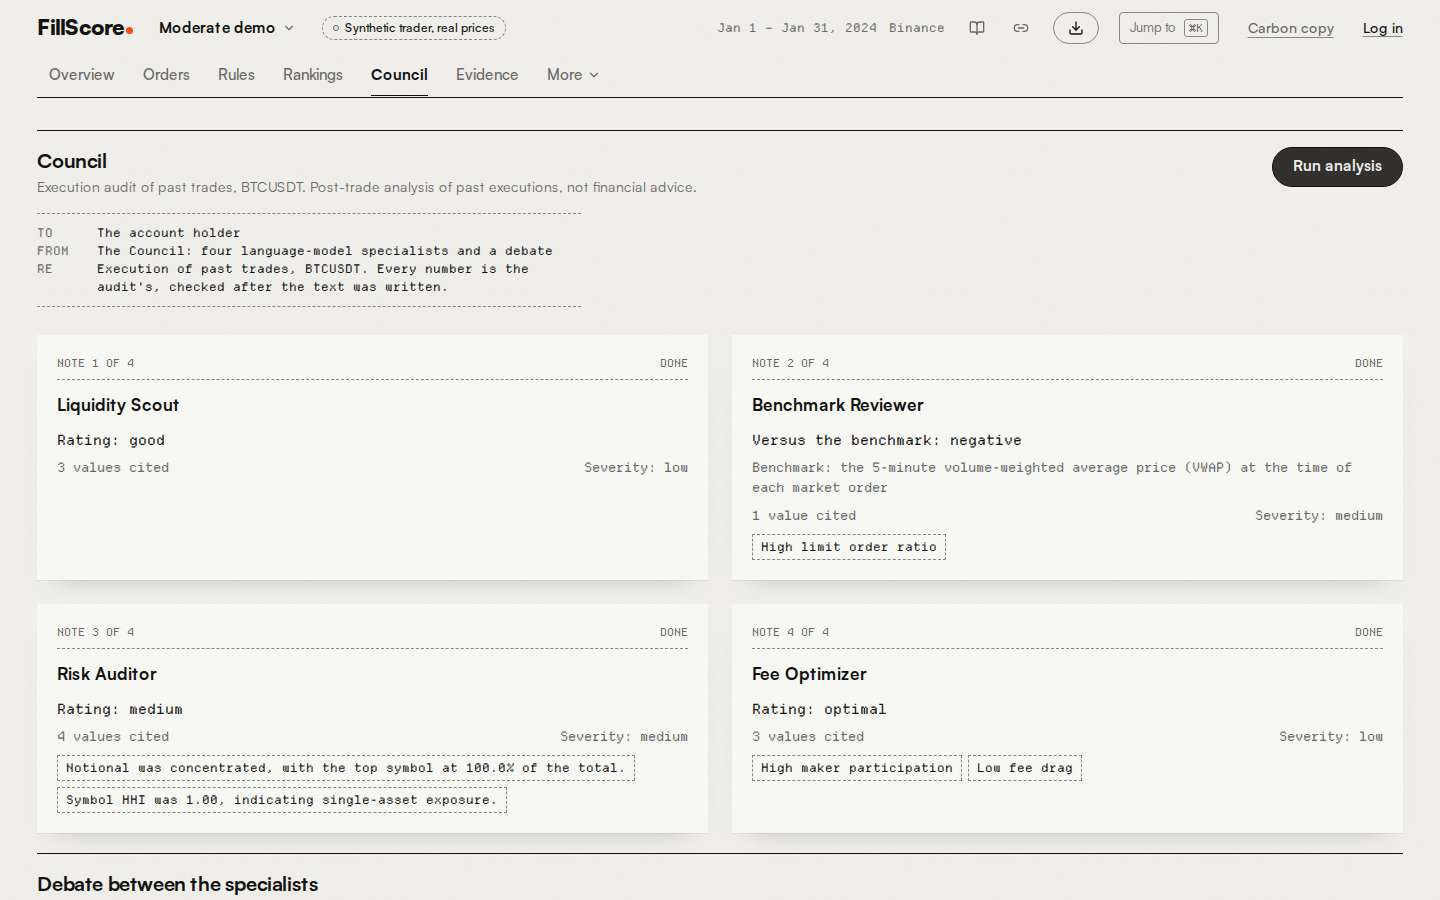
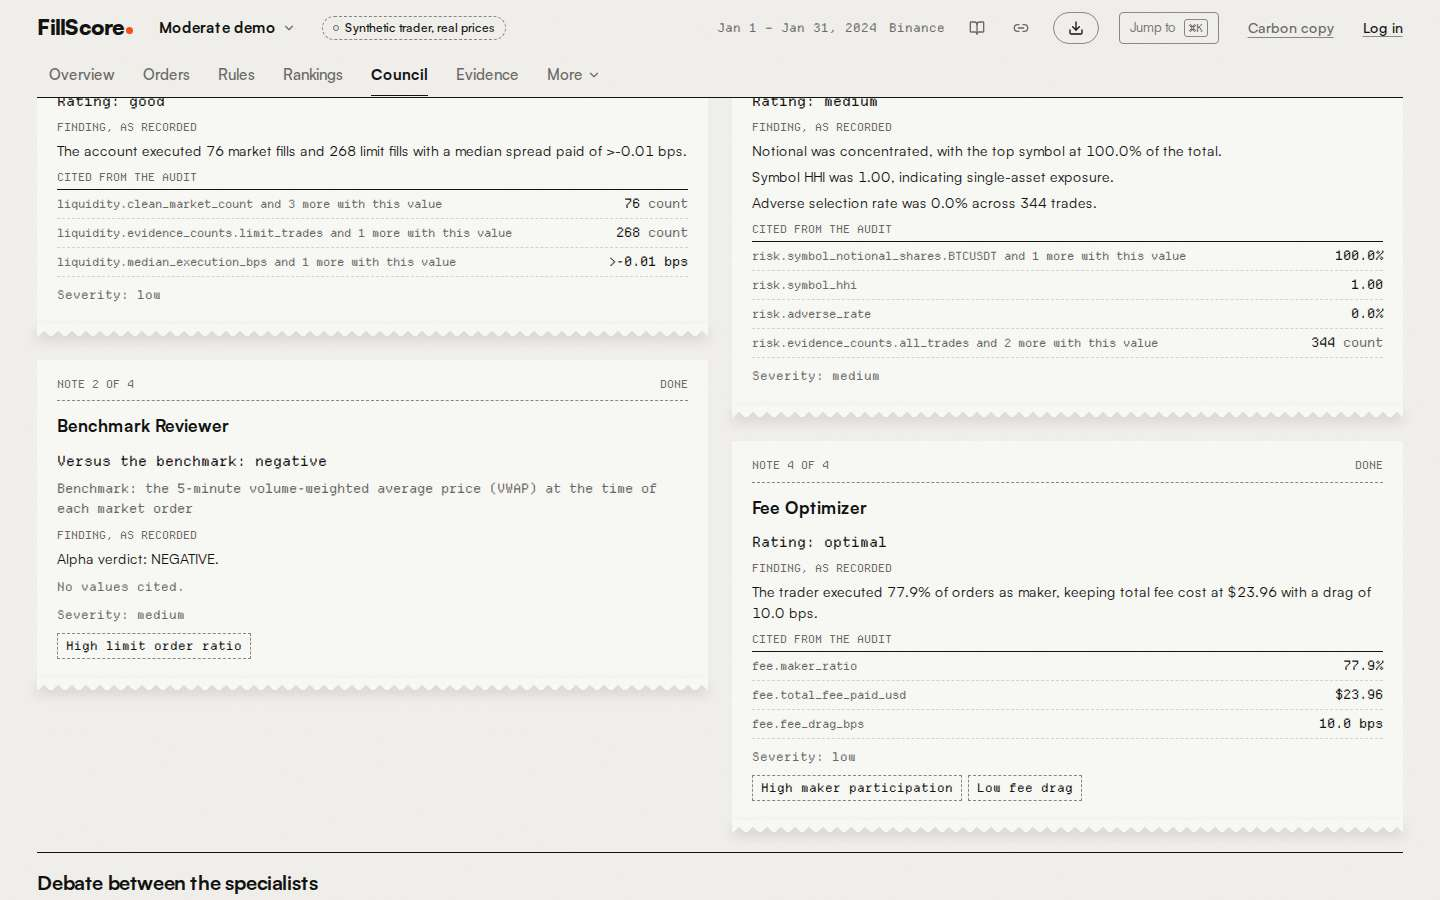
design v3 fixes QA: final pass, images, M8 report, progress

diff --git a/docs/milestones/M8.md b/docs/milestones/M8.md
@@ -1,5 +1,54 @@
 # M8 — Design v3 "Tape & Receipt" (and, below, design v2 "Instrument")
 
+## Design v3 fixes, 2026-11-21
+
+Design v3 was approved and pushed; this order fixed the review's findings (A1-A10), added three server-side numbers
+(B1-B3) and ran QA. One local commit per item (`git log add2d42..HEAD`), not pushed. Details per item in
+`docs/PROGRESS.md`.
+
+| Item | Outcome | What and why |
+|---|---|---|
+| A1 order count | done | Cause: the Orders page grouped fills in the browser, so the 11 never-filled orders had no row (245 stored, 234 with fills, 607 fills). New `GET /api/audit/orders-ledger` lists every stored order; `orderCounts()` is returned by it and by `/orders-summary`; header "245 orders, 234 with fills, 607 fills."; tested that both carry the same counts |
+| A2 v1 grade | kept | Display 84.8 = `formatScore(84.80888516669383)`, the locked value in CLAUDE.md, `gradeInvariance.test.ts` and `demoProfiles.ts`; 84.570 exists only as a retired set in a "never carry" test. Nothing changed; chain in PROGRESS for Deepanshu |
+| A3 tiny values | done | Display formatter only: "−0.00 bps"/"−$0.00" for tiny negatives, "<0.01" kept for tiny positives, exact value in title and screen-reader text. PDF formatter, evidence packs, CSV, goldens: diff empty |
+| A4 tab band | done | The view's first section drew a second ink rule 32 px under the tabs' rule; it no longer does (Orders, Rules, Rankings, Council, Evidence, Settings) |
+| A5 receipt case | done | Explanatory sentences in sentence case (`receiptCopy.ts`, tested); capitals only for labels |
+| A6 hero at 390 | done | Squarish pen loops round the whole fill tiles, measured clear of all printed text; the fee leader ends on the second loop (also on the desktop) |
+| A7 Council notes | done | Finding verbatim; cited values as ledger lines traced on read by `ml-service/agents/cited_values.py` (shown only when every numeral is traced), sent as a `cited_values` event; notes as printed paper at natural height |
+| A8 refusal | done | "Turned on: ... Needed: Reading only."; Binance keeps the fields ("Press Connect again. Nothing from this attempt was stored."), Bybit/OKX and an unaccepted key clear both and focus the key; tests per exchange and a browser check |
+| A9 file input | done | A pill button that is the label of the real, focusable file input |
+| A10 stamp | done | 20 px inset below 1024 px; outline inside the margin from 320 to 1440 px |
+| B1 per-order cost | done | Ledger rows carry `cost` (totalBps x intendedNotional / 10,000, the receipt's formula); sum = $52.08; the tape draws dollars, improvements below the line; payload 109,678 bytes (20,482 gzip) for 245 orders |
+| B2 per-type totals | done | `totalsByType()` as `byType` on `/orders-summary`; families add up to All (tested); the All / Market / Limit switch is back ($14.70 + $37.38 = $52.08) |
+| B3 public prints | not built | No prints are stored anywhere the server can read deterministically (demo or real); serving them needs new storage, an ingestion change or a request-time download, all excluded. The receipt drops its chart and keeps the source line. Options with sizes in PROGRESS |
+
+| Check | Result |
+|---|---|
+| frontend vitest | 684 passed |
+| tsc, lint, build | 0 errors; lint 0 errors, 17 warnings (unchanged); build ok |
+| e2e | 39 passed |
+| backend vitest, tsc | 124 files, 1037 passed; 0 |
+| ml-service pytest | 1785 passed, 1 skipped |
+| evals offline, ablation --check | 0 violations; exit 0 |
+| guard table, roadmap ids | 214 passed; OK |
+| qa3 final pass (`fix-2`), 26 states | no overflow, axe 0 serious or critical; one overlap on the landing story end at 1440 (hero copy scrolled under the bar mid-pin; screen not changed, recorded before); landing CLS 0 at 1440 and 390 |
+| break-ui (`e2e-shots/break3.ts`) | receipt worst case, unmeasured unfilled receipt, Council worst case at 1440/390/320: clean after one fix pass (a not-computed total printed at display size; hash squeezed by the stamp at 320) |
+| First Load JS, gzip kB | `/` 323.6, `/dashboard` 384.3, `/login` 313.2 |
+
+**e2e specs changed (one line each):** `council-demo.spec.ts` asserts each note states its cited values (ledger, "No
+values cited." or "could not be traced") instead of "N values cited" (A7, ordered); `rebuilt-demo.spec.ts` expects
+"−0.00 bps"/"−$0.00" and the exact-value title (A3, ordered). No spec deleted.
+
+**Reviewer (independent, on the diff): no high or medium findings.** Fixed: LIMIT_MAKER shown as Limit; a line when
+orders of other types are in All only; the exact value below 0.000001 in words; the trace can never break a run; a
+stale test docstring. Kept, in PROGRESS: `/orders-summary` (no stored orders → unavailable) and `/orders-ledger`
+(orders or fills) differ for an account with fills but no orders; loading all fills for `counts` costs time only for
+accounts of about 100k fills or more (an aggregation would avoid it); `notionalOf` falls back to 0 only if a required
+field were missing.
+
+**Not verified.** No real phone, Safari or Firefox; signed-in screens only with mocked API answers; the cited-values
+fixture for screenshots comes from offline packets (the server traces against the hash-verified ones).
+
 ## Design v3, 2026-11-20 (second order)
 
 Deepanshu chose direction 1 "Tape & Receipt" with four fixes. Local commits, not pushed (steps 1 to 8 one commit each,

diff --git a/docs/design/v3/README.md b/docs/design/v3/README.md
@@ -3,22 +3,24 @@
 Deepanshu chose direction 1 on 2026-11-20 with four fixes; every production screen is converted (local commits, not
 pushed; design v2 stays live until he pushes). The rulebook is `DESIGN.md` at the repository root.
 
-Captured by `frontend/e2e-shots/qa3.ts` (pass 3, the last of three fix passes) from a local production build, headless
-Chromium, viewport only, JPEG quality 60. Every API call is answered from fixtures cut from the offline demo build
+Captured by `frontend/e2e-shots/qa3.ts` from a local production build, headless Chromium, viewport only, JPEG quality
+60. **Design v3 fixes, 2026-11-21:** 12 of the 14 images were recaptured in the fixes' final pass (`fix-2`): the two
+overviews, the two receipts, both hero end frames, rankings, Council (now the specialist notes), verify, onboarding
+refusal and both Carbon copy images. `landing-hero-start-1440.jpg` and `landing-story-end-1440.jpg` are unchanged. Every API call is answered from fixtures cut from the offline demo build
 (demo-moderate, January 2024: synthetic trader, real prices); no database, no network.
 
 | Image | What it shows |
 |---|---|
 | `landing-hero-start-1440.jpg` | Fix 1, frame 0: the headline bottom-left at editorial scale, the tape of the 38 real prints full-bleed and already feeding, the call to action |
 | `landing-hero-end-1440.jpg` | The end of the pinned story: the tape at rest on the order, spread bracket, impact bracket, two fee circles, each amount in pen-ink tied to its mark by a leader |
-| `landing-hero-end-390.jpg` | The same on a phone: the fee circles with their note and leader; spread, impact and fees printed under the tape with "synthetic trader, real prices" |
+| `landing-hero-end-390.jpg` | The same on a phone: squarish pen loops round the whole fill tiles, clear of every printed line (A6), the fee note's leader ending on the second loop; spread, impact and fees printed under the tape with "synthetic trader, real prices" |
 | `landing-story-end-1440.jpg` | Fix 2: the order's $0.25 in pen-ink at display scale, "10.0 bps; fees were 99.99% of it" double-underlined |
-| `overview-1440.jpg`, `overview-390.jpg` | The period total as the image (graphite cents), the headline sentence, measured and published-rate fees, the rubber-stamp grade with the frozen v1 line, the month tape |
-| `orders-receipt-1440.jpg`, `orders-receipt-390.jpg` | The thermal receipt from the real replay API: printing from the slot on a desktop, a Vaul drawer with a torn top on a phone; NOT SIGNED on a demo |
-| `rankings-1440.jpg` | Rankings as a tape: rank 1 first, pen brackets for the 90% intervals (a ring where an interval is narrower than the mark), "too few to tell" below |
-| `council-1440.jpg` | The Council as an auditors' memo: TO/FROM/RE, four typed notes, recorded output verbatim |
-| `verify-checked-1440.jpg` | /verify after a check: manifest lines ticked OK, signature, the VALID stamp (fixture pack signed with a throwaway test key, `app/lib/__fixtures__`) |
-| `onboarding-refusal-1440.jpg` | A refused key as a returned receipt with the corrections printed |
+| `overview-1440.jpg`, `overview-390.jpg` | The period total as the image (graphite cents), the headline sentence, measured and published-rate fees, the rubber-stamp grade with the frozen v1 line (inside the margin on a phone, A10), the month tape with each order's dollar cost from the server (B1) |
+| `orders-receipt-1440.jpg`, `orders-receipt-390.jpg` | The thermal receipt from the real replay API: printing from the slot on a desktop, a Vaul drawer with a torn top on a phone; no chart, "Fills only; the public prints are in the source file." (B3); sentences in sentence case (A5); the ledger behind it lists all 245 orders (A1); NOT SIGNED on a demo |
+| `rankings-1440.jpg` | Rankings as a tape, no empty band or doubled rule under the tabs (A4): rank 1 first, pen brackets for the 90% intervals, "too few to tell" below |
+| `council-1440.jpg` | The Council's specialist notes (A7): printed paper at natural height, each with its recorded finding verbatim and its cited values as ledger lines (audit field, value, unit) |
+| `verify-checked-1440.jpg` | /verify after a check, with the pill "Choose another pack file" button (A9): manifest lines ticked OK, signature, the VALID stamp (fixture pack signed with a throwaway test key, `app/lib/__fixtures__`) |
+| `onboarding-refusal-1440.jpg` | A refused key as a returned receipt, in plain words ("Turned on: ... Needed: Reading only."), the last correction matching the form (A8) |
 | `overview-carbon-1440.jpg`, `receipt-carbon-1440.jpg` | Fix 3: Carbon copy, warm charcoal with the same orange (contrast-tested) |
 
 Checks: no horizontal overflow, no overlapping text and axe 0 serious or critical on all 22 captured states (the only

diff --git a/docs/PROGRESS.md b/docs/PROGRESS.md
@@ -7,7 +7,33 @@ This file is the resume point for the work in `docs/agent/MASTER_BRIEF.md`. A ne
 Design v3 is approved and pushed. This order fixes the review's findings (part A), adds three server-side numbers the
 design needs (part B), then QA. One local commit per numbered item.
 
-- **Next concrete action: QA (qa3 on the changed states, break-ui, the full checks, images, M8.md).**
+- **Next concrete action: Design v3 fixes ready for Deepanshu's review.** Reason: every item is done, kept or not
+  built with its reason (below and in `docs/milestones/M8.md`, "Design v3 fixes, 2026-11-21"); local commits only, the
+  push is his. Images: `docs/design/v3/` (12 of 14 recaptured). Open for him: A2 (84.57 vs the locked 84.809, if he
+  holds a record that says otherwise), B3 options 1-2 (prints for the receipt), the reviewer's kept items below.
+- **Status of every ordered item:** A1 done, A2 kept (no change; trace below), A3-A10 done, B1 done, B2 done, B3 not
+  built (prints not readable without new storage; receipt chart removed); QA done.
+- **QA, done.** qa3 (26 states incl. the receipt end, an unfilled receipt and the Council notes) two passes: `fix-1`
+  then `fix-2`: no overflow, axe 0 serious or critical, landing CLS 0 at 1440 and 390; one overlap reported on the
+  landing story end at 1440 (the hero copy scrolled under the top bar mid-pin; that screen is unchanged and the item was
+  recorded in the previous QA). break-ui (`e2e-shots/break3.ts`: receipt with a 64-character id, 40 fills, an 8-figure
+  cost and a tiny negative; an unmeasured unfilled order; a Council note with 1,600 characters, a 90-character token and
+  25 cited values, another not traceable; at 1440, 390, 320): one fix pass (a not-computed total printed at display size
+  and clipped; the hash column squeezed by the stamp at 320; a duplicate "NONE"), then clean. Refusal form check: 3 of
+  3. Checks: frontend vitest 684 passed, tsc 0, lint 0 errors (17 warnings, unchanged), build ok, e2e 39 passed (two
+  specs' assertions follow the ordered strings: `council-demo.spec.ts` for A7, `rebuilt-demo.spec.ts` for A3; none
+  deleted), backend 124 files / 1037 passed and tsc 0, ml-service 1785 passed / 1 skipped, evals offline 0 violations,
+  ablation --check exit 0, guard table 214 passed, roadmap ids OK; First Load JS `/` 323.6, `/dashboard` 384.3,
+  `/login` 313.2 kB gzip (was 323.2, 383.2, 313.2).
+- **Independent reviewer: no high or medium findings.** Fixed: LIMIT_MAKER shown as Limit in the ledger (the per-type
+  totals already count it so); a line under the switch when measured orders of other types are in All only; the exact
+  value below 0.000001 in words, not exponent form; `safe_trace` so the trace can never break a Council run (tested); a
+  stale docstring. Kept: (1) `/orders-summary` says unavailable when no order is stored while `/orders-ledger` lists
+  fills without stored orders, so an account with fills but no orders shows fill groups on the Orders page and no counts
+  on the overview (the summary's behaviour is unchanged); (2) `/orders-summary` and `/orders-ledger` load every fill of
+  the account (projected fields) to count them: real cost only from about 100k fills; a `$group` aggregation and one
+  shared ledger fetch for the tape and the Orders page would remove it; (3) `notionalOf` uses 0 only if both notional
+  and price were missing, which the Trade schema forbids.
 - **B3, investigated; prints not built (receipt chart removed).** Where the source comes from today: `GET
   /api/audit/orders/:orderId/replay` (`routes/explain.ts` → `services/orderReplay.ts`) reads the order, its fills and
   its `order_measurements` document; the source is `marketDataRefs` (source `data.binance.vision`, dataset

diff --git a/docs/research/LOG.md b/docs/research/LOG.md
@@ -352,3 +352,21 @@ Facts gathered by the docs-researcher subagent from official pages only; pages t
   switch of the prototype is left out, rather than computing costs in the browser.
 - **Bundle (gzip, `scripts/first-load-js.mjs`):** `/` 332.7 to 323.2 kB, `/dashboard` 380.9 to 383.2, `/login` 309.7 to
   313.2 against design v2.
+
+## AE. Design v3 fixes (orders of 2026-11-21)
+
+- **Counting orders from fills undercounts.** Grouping fills drops every order that never filled (demo-moderate: 245
+  stored, 234 with fills). The server now owns the ledger and its counts (`orderCounts`), shared with the summary.
+- **The recorded Council run cannot say which values it cited.** It keeps rendered text and a count. Rendering every
+  packet leaf as the placeholder renderer does and finding those strings in the text traces them deterministically; the
+  recorded count is not a valid gate (the claim check can replace an explanation with a fallback after counting:
+  demo-disciplined liquidity, recorded 3, text with no number), so the gate is "every numeral lies in a traced value".
+  On the offline build all four demo-moderate notes trace. Offline packets do not hash-equal the stored ones (database
+  ids), so the server traces against the hash-verified packets.
+- **Per-order cost is cheap on read.** totalBps x intendedNotional / 10,000 per order sums exactly to the summary's
+  total ($52.0785604695634); the ledger for 245 orders is 109,678 bytes (20,482 gzip).
+- **Public prints are not readable on request.** Refs name the daily file and its SHA-256; the prints live only in an
+  ephemeral ml-service cache. Options (capped windows committed for demos, or stored at measurement time) are in
+  PROGRESS; none built.
+- **Rotation about a scaled edge moves the corner.** `origin-left` for the phone's scale also moves the stamp's -7°
+  pivot, swinging its top-left corner 12 to 15 px past its box.

diff --git a/docs/HANDOFF.md b/docs/HANDOFF.md
@@ -29,7 +29,12 @@ An open-source, independent execution auditor for crypto traders. It **grades pa
 - **Milestone state:** see `docs/PROGRESS.md`.
 
 ## Next
-**2026-11-20 (latest): Design v3 ready for Deepanshu's review (`docs/design/v3/`).** Direction 1 "Tape & Receipt" is
+**2026-11-21 (latest): Design v3 fixes ready for Deepanshu's review.** Design v3 was pushed; A1-A10 and B1-B3 are
+committed locally (B3 not built: no readable prints without new storage; A2 kept: the display matches the locked grade).
+New: `GET /api/audit/orders-ledger`, `counts` and `byType` on `/orders-summary`, the Council `cited_values` event.
+Report: `docs/milestones/M8.md` ("Design v3 fixes, 2026-11-21"); status: `docs/PROGRESS.md`. Older text follows.
+
+**2026-11-20: Design v3 ready for Deepanshu's review (`docs/design/v3/`).** Direction 1 "Tape & Receipt" is
 built into every production screen with the four fixes (local commits, not pushed; design v2 stays live until the push).
 Rules: `DESIGN.md`; report: `docs/milestones/M8.md` (design v3 section); status: `docs/PROGRESS.md`. Older text follows.
 
